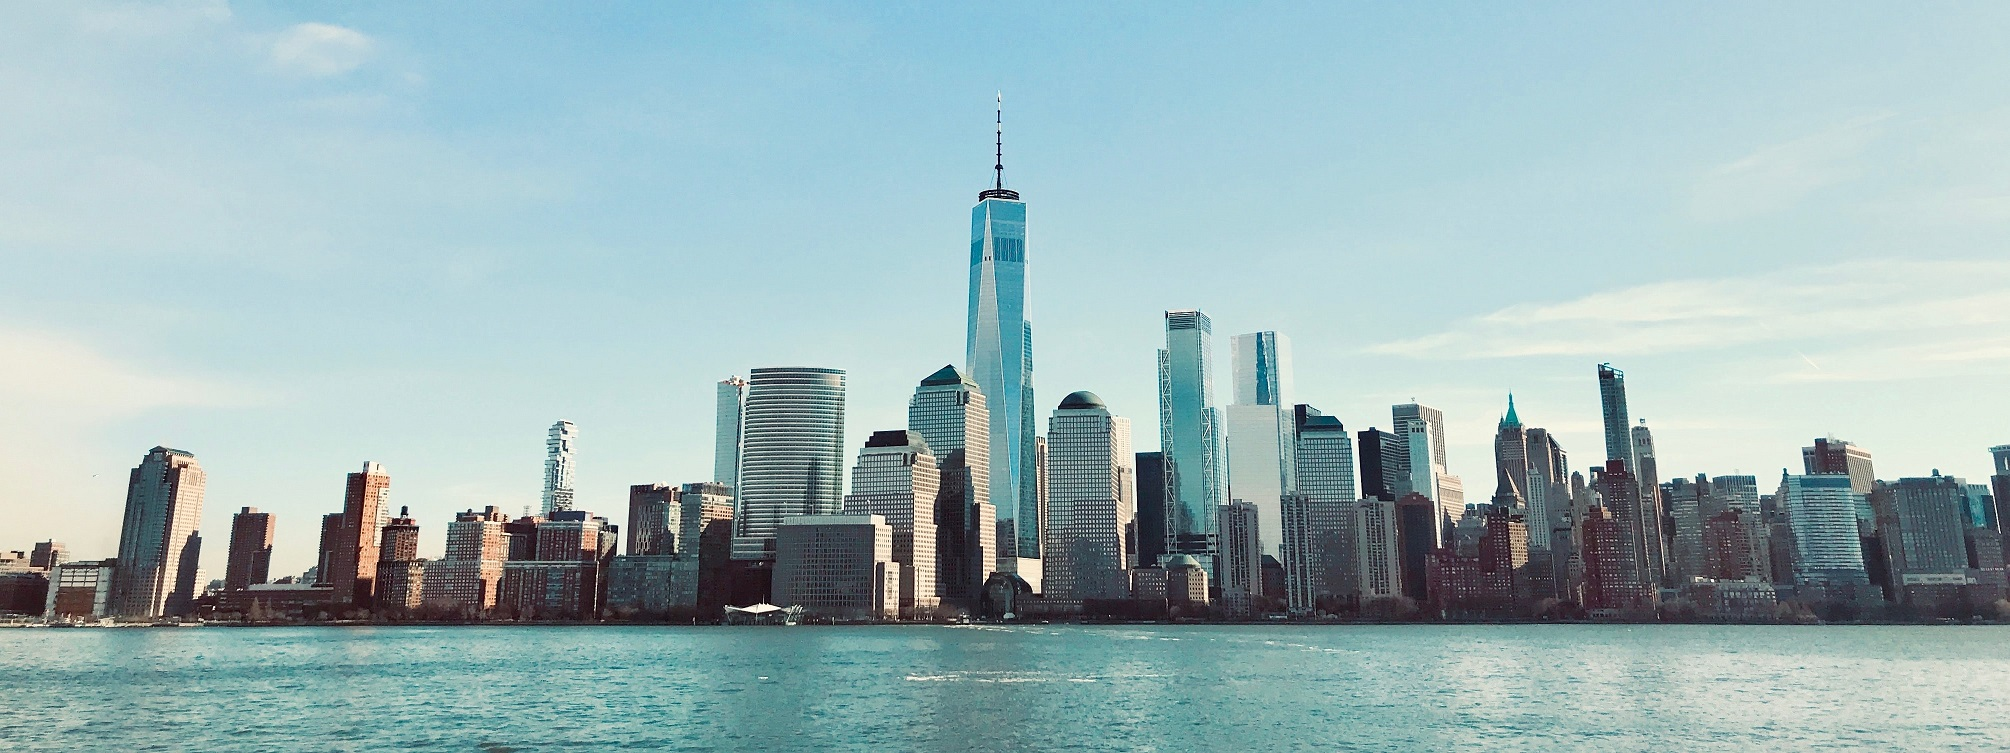
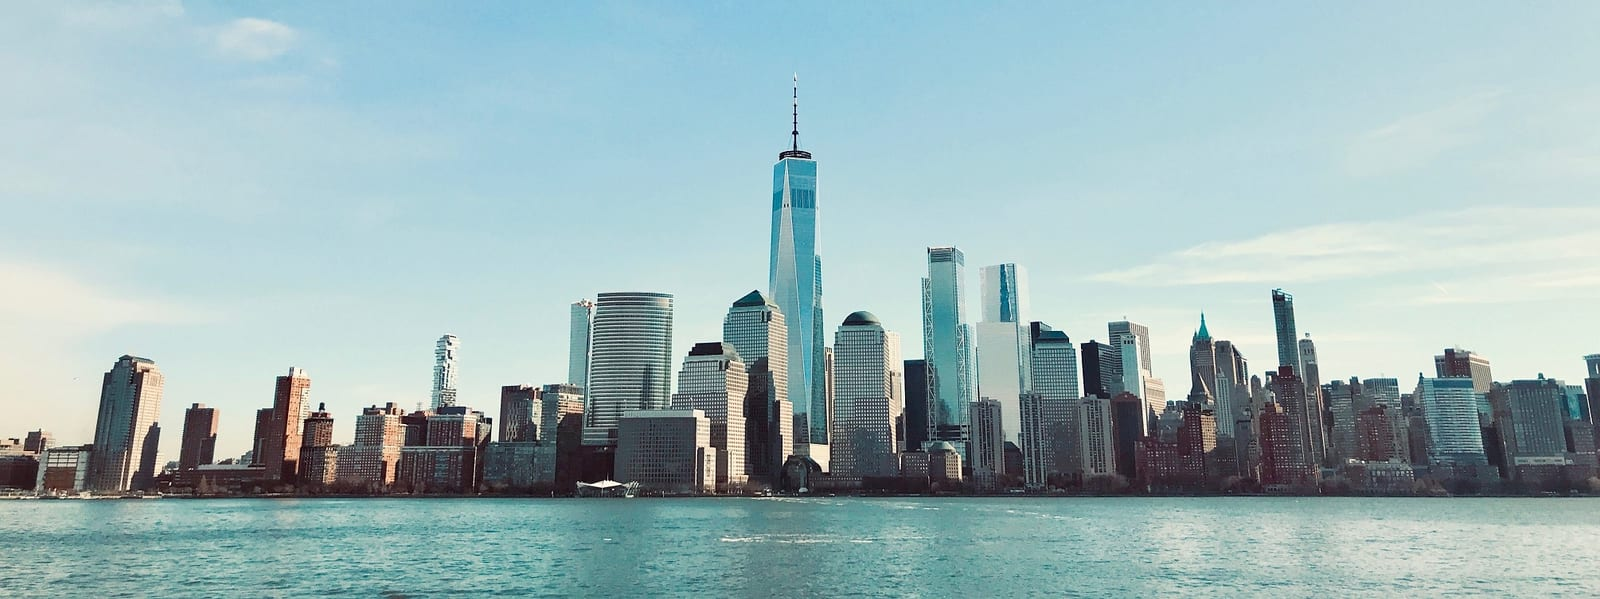
Shrink oversized JPEGs and enforce a width and byte budget
The JPEG is what browsers without WebP download, and the set weighed
8.3 MB with one file 5896px wide. `npm run images` now bakes in EXIF
orientation, caps width at 1600px, recompresses with mozjpeg and strips
metadata, touching only files over budget so reruns are byte-stable.
`images:check` fails on any JPEG over the caps. WebP sidecars and the
size table are regenerated from the shrunk sources.

JPEG total: 8.3 MB -> 2.6 MB.

Changed region(s): [[0.5312, 0.6611, 0.5625, 0.7212], [0.375, 0.5409, 0.4062, 0.601], [0.3438, 0.6611, 0.375, 0.6912]]

diff --git a/scripts/optimize-images.ts b/scripts/optimize-images.ts
@@ -8,7 +8,9 @@ import path from "node:path";
  * Repository invariants:
  *   1. every `.jpg`/`.jpeg` under `static/img` has a same-name `.webp`
  *      sidecar;
- *   2. `src/image-dimensions.json` lists the pixel size of every image
+ *   2. no JPEG is wider than MAX_WIDTH or heavier than MAX_JPEG_BYTES,
+ *      since the JPEG is the fallback browsers without WebP download;
+ *   3. `src/image-dimensions.json` lists the pixel size of every image
  *      under `static/img`, keyed by its site path.
  *
  * Rendering (`src/images.ts`) maps URLs purely by convention and reads
@@ -16,14 +18,17 @@ import path from "node:path";
  * both guarantees.
  *
  * Usage:
- *   npm run images          regenerate sidecars and the table (always
- *                           rewrites; deterministic output)
- *   npm run images:check    fail when a sidecar is missing or the table
- *                           differs from the images on disk
+ *   npm run images          shrink oversized JPEGs in place, regenerate
+ *                           sidecars and the table
+ *   npm run images:check    fail when a sidecar is missing, a JPEG is
+ *                           oversized, or the table differs from the
+ *                           images on disk
  */
 const IMG_ROOT = "static/img";
 const TABLE_PATH = "src/image-dimensions.json";
 const MAX_WIDTH = 1600;
+const MAX_JPEG_BYTES = 400 * 1024;
+const JPEG_QUALITY = 82;
 const WEBP_QUALITY = 80;
 const IMAGE_EXTENSIONS = [".jpg", ".jpeg", ".png", ".svg", ".webp"];
 
@@ -94,6 +99,35 @@ async function readTable(): Promise<string> {
 	return `${JSON.stringify(table, null, "\t")}\n`;
 }
 
+/**
+ * A JPEG is oversized when it is wider than the cap or heavier than the
+ * byte budget. Both are cheap to test and either one means the file
+ * has not been through `npm run images`.
+ */
+async function oversizedReason(jpeg: string): Promise<string | undefined> {
+	const { default: sharp } = await import("sharp");
+	const { width } = await sharp(jpeg).metadata();
+	if (width !== undefined && width > MAX_WIDTH) {
+		return `${width}px wide (max ${MAX_WIDTH})`;
+	}
+	const bytes = (await stat(jpeg)).size;
+	if (bytes > MAX_JPEG_BYTES) {
+		return `${formatBytes(bytes)} (max ${formatBytes(MAX_JPEG_BYTES)})`;
+	}
+	return undefined;
+}
+
+async function oversizedJpegs(jpegs: string[]): Promise<string[]> {
+	const found: string[] = [];
+	for (const jpeg of jpegs) {
+		const reason = await oversizedReason(jpeg);
+		if (reason !== undefined) {
+			found.push(`${jpeg}: ${reason}`);
+		}
+	}
+	return found;
+}
+
 async function check(): Promise<number> {
 	const jpegs = await listFiles(IMG_ROOT, isJpegFile);
 	const missing = missingSidecars(jpegs, existsSync);
@@ -102,6 +136,16 @@ async function check(): Promise<number> {
 	}
 	if (missing.length > 0) {
 		console.error(`images:check: ${missing.length} missing sidecar(s)`);
+		return 1;
+	}
+	const oversized = await oversizedJpegs(jpegs);
+	for (const line of oversized) {
+		console.error(`oversized JPEG: ${line}`);
+	}
+	if (oversized.length > 0) {
+		console.error(
+			`images:check: ${oversized.length} oversized jpeg(s) (run \`npm run images\`)`,
+		);
 		return 1;
 	}
 	const stored = existsSync(TABLE_PATH)
@@ -136,11 +180,41 @@ async function convertOne(
 	return { before, after };
 }
 
+/**
+ * Shrink an oversized JPEG in place: bake in EXIF orientation, cap the
+ * width, recompress with mozjpeg, drop metadata. Files already within
+ * budget are left byte-for-byte alone so repeated runs never degrade
+ * them. Refuses to leave a file that is still over budget, since the
+ * check would then fail forever.
+ */
+async function shrinkJpeg(jpeg: string): Promise<void> {
+	const reason = await oversizedReason(jpeg);
+	if (reason === undefined) {
+		return;
+	}
+	const { default: sharp } = await import("sharp");
+	const before = (await stat(jpeg)).size;
+	const shrunk = await sharp(jpeg)
+		.rotate()
+		.resize({ width: MAX_WIDTH, withoutEnlargement: true })
+		.jpeg({ quality: JPEG_QUALITY, mozjpeg: true })
+		.toBuffer();
+	await writeFile(jpeg, shrunk);
+	console.log(
+		`${jpeg} (${formatBytes(before)}, ${reason}) -> ${formatBytes(shrunk.length)}`,
+	);
+	const still = await oversizedReason(jpeg);
+	if (still !== undefined) {
+		throw new Error(`${jpeg} is still oversized after shrinking: ${still}`);
+	}
+}
+
 async function generate(): Promise<number> {
 	const jpegs = await listFiles(IMG_ROOT, isJpegFile);
 	let totalBefore = 0;
 	let totalAfter = 0;
 	for (const jpeg of jpegs) {
+		await shrinkJpeg(jpeg);
 		const result = await convertOne(jpeg);
 		totalBefore += result.before;
 		totalAfter += result.after;
